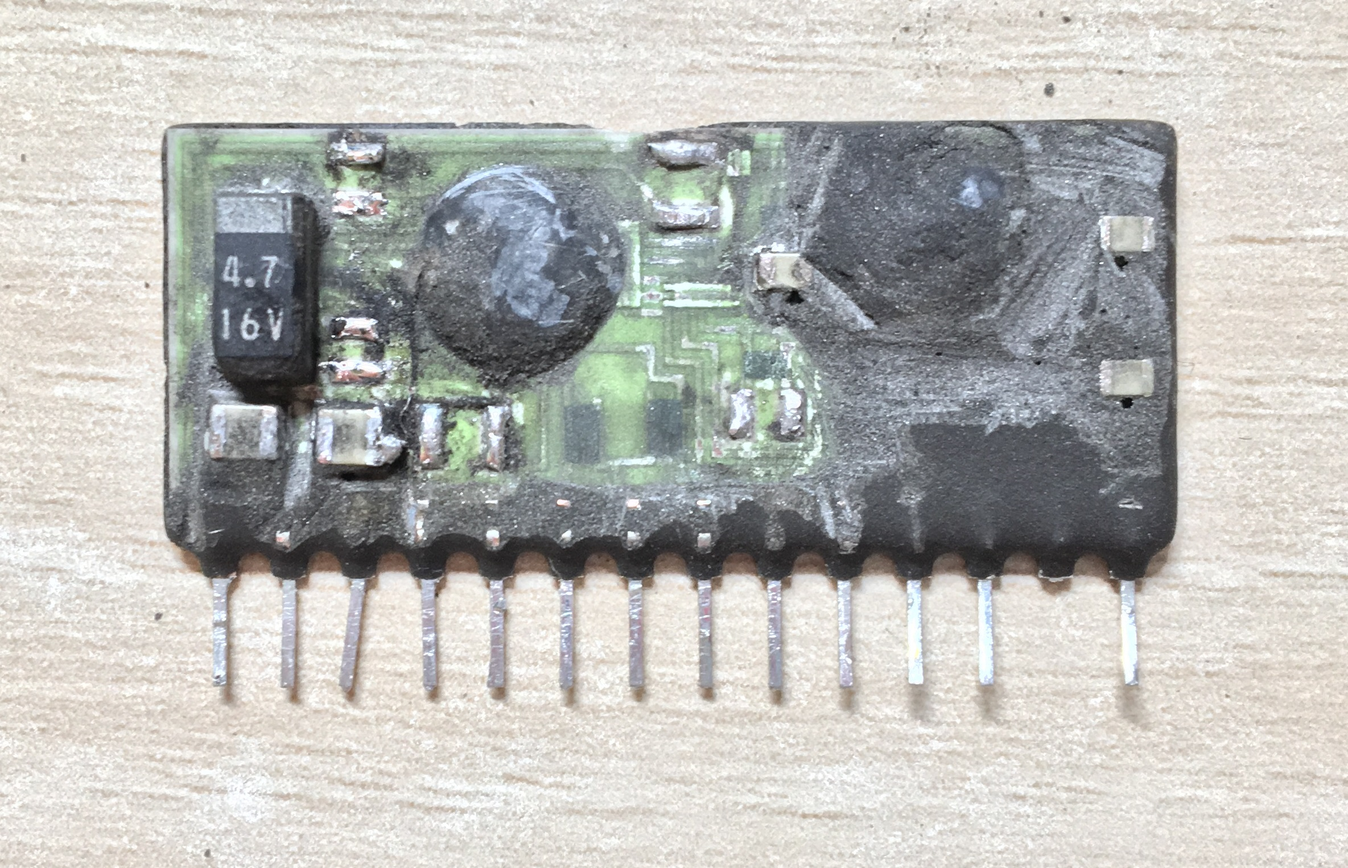
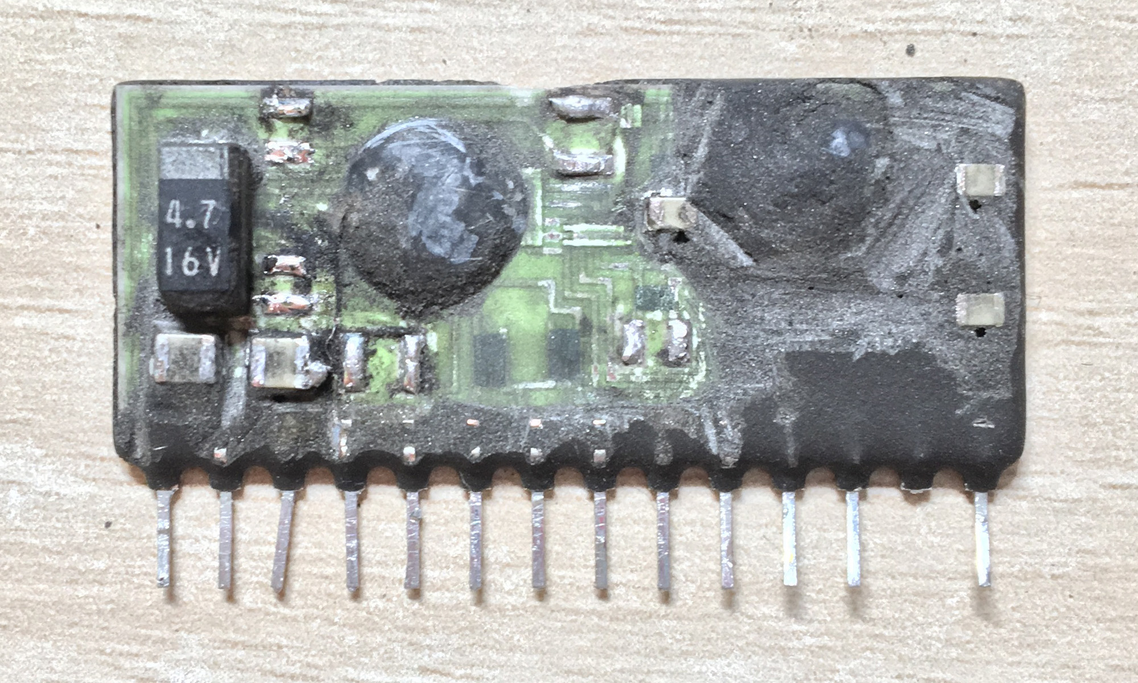
Update Dec. 09, 2012
Photo added, schematics corrected, README revised

diff --git a/Taito_PC040DA/README.md b/Taito_PC040DA/README.md
@@ -1,16 +1,20 @@
 # Taito PC040DA
-* Role: 6bit DAC with clock input and 3 blanking pin
+* Role: 6bit DAC with clock input and 3 blanking pins
 * Part number: PC040DA
-* Used on:
+* Used on: The Legend of Kage(影の伝説), L.S.A. Squad(陸海空 最前線), Tokio(Scramble Formation), Bubble Bobble, Rainbow Islands, Darius, Rastan, Operation Wolf
 * Manufacturer: ?
 
 
 
 
 ## Original IC
-<p align=center><img alt="PC040DA_photo" src="./PC040DA_photo.jpg" height="auto" width="640"></p>
+<p align=center><img alt="PC040DA_front" src="./PC040DA_front.jpg" height="auto" width="640"></p>
+
+<p align=center><img alt="PC040DA_back" src="./PC040DA_back.jpg" height="auto" width="640"></p>
 
 ## What's inside
+<p align=center><img alt="PC040DA_xray" src="./PC040DA_xray.png" height="auto" width="640"></p>
+
 <p align=center><img alt="PC040DA_diagram" src="./PC040DA_diagram.png" height="auto" width="640"></p>
 
 

diff --git a/Taito_PC030CM/README.md b/Taito_PC030CM/README.md
@@ -1,0 +1,22 @@
+# Taito PC030CM
+* Role: Coin management chip
+* Part number: PC030CM
+* Used on: 
+* Manufacturer: ?
+
+Decapped by me(photo attached) There are two epoxy filled bare dies on its subtrate. I inferred chips' models and circuits from Taito's previous game, Buggy Challenge. 
+
+
+## Original IC
+<p align=center><img alt="PC030CM_front" src="./PC030CM_front.jpg" height="auto" width="640"></p>
+
+
+<p align=center><img alt="PC030CM_back" src="./PC030CM_back.jpg" height="auto" width="640"></p>
+
+### Pinout
+
+
+## Replacement
+<p align=center><img alt="PC030CM_replacement" src="./PC030CM_replacement.png" height="auto" width="640"></p>
+
+### Parts list

diff --git a/Taito_PC010SA/README.md b/Taito_PC010SA/README.md
@@ -8,9 +8,15 @@ Decapped by me(photo attached) There are two epoxy filled bare dies on its subtr
 
 
 ## Original IC
-<p align=center><img alt="PC010SA_scan" src="./PC010SA_scan.png" height="auto" width="640"></p>
+<p align=center><img alt="PC010SA_front" src="./PC010SA_front.jpg" height="auto" width="640"></p>
+
+
+<p align=center><img alt="PC010SA_back" src="./PC010SA_back.jpg" height="auto" width="640"></p>
 
 ## What's inside
+<p align=center><img alt="PC010SA_decapped" src="./PC010SA_decapped.jpg" height="auto" width="640"></p>
+
+
 <p align=center><img alt="PC010SA_diagram" src="./PC010SA_diagram.png" height="auto" width="640"></p>
 
 ### Components

diff --git a/Toaplan_GXC-0x/README.md b/Toaplan_GXC-0x/README.md
@@ -8,9 +8,11 @@ This module can replace a faulty original chip. Activiting microprocessor mode o
 
 
 ## Original IC
-<p align=center><img alt="GXC-04_chip" src="./GXC-04_chip.jpg" height="auto" width="640"></p>
+<p align=center><img alt="GXC-04_front" src="./GXC-04_front.jpg" height="auto" width="640"></p>
+
+<p align=center><img alt="GXC-04_back" src="./GXC-04_back.jpg" height="auto" width="640"></p>
 
 ## Replacement
-<p align=center><img alt="GXC-04_chip" src="./GXC-04_replacement.jpg" height="auto" width="640"></p>
+<p align=center><img alt="GXC-04_replacement" src="./GXC-04_replacement.jpg" height="auto" width="640"></p>
 
 ### Parts list
